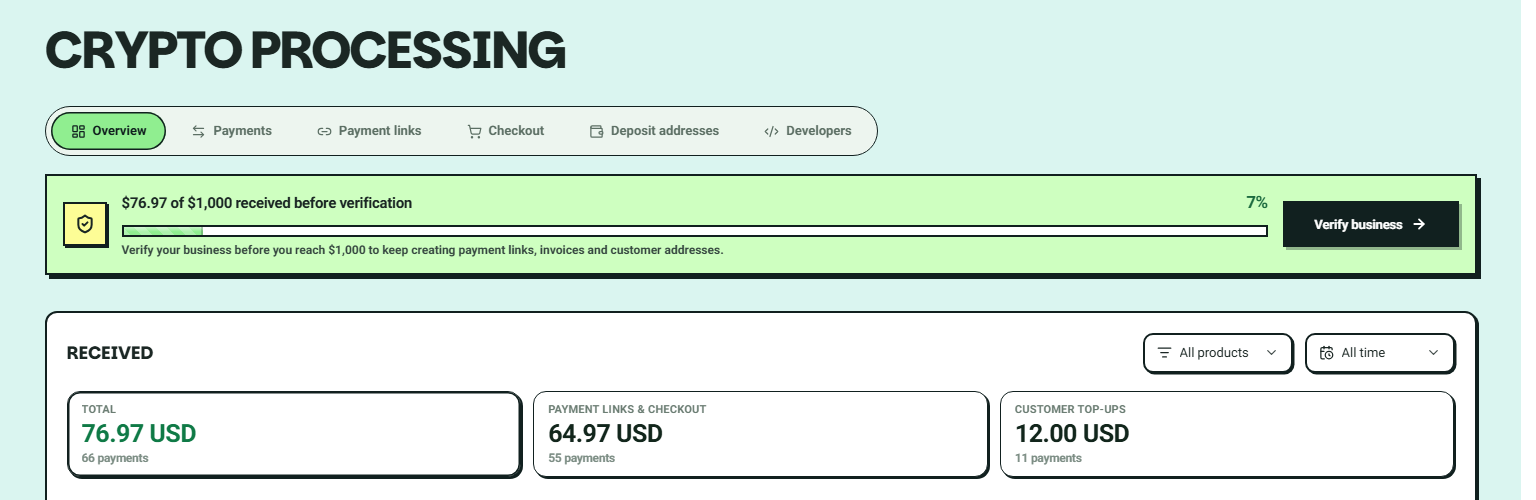
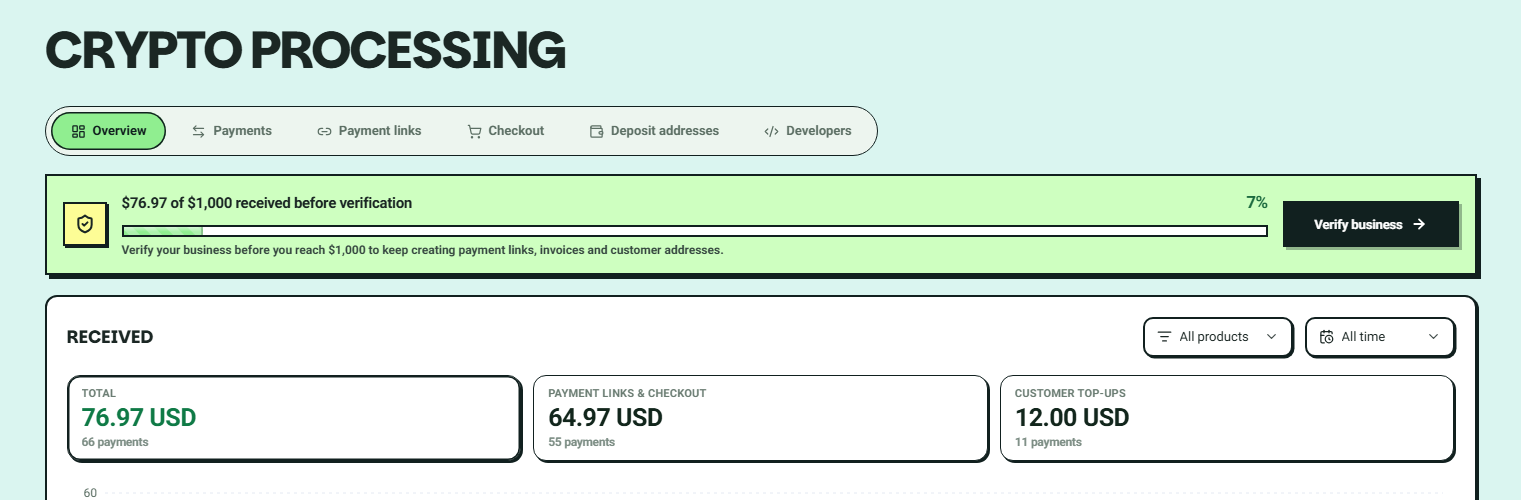
Crypto processing docs: the onboarding questions as they are now, the band on every page
- Before you start accepting crypto no longer asks whether payments link to customers; where customers are is one
  picker (countries, or Worldwide), and finishing confirms no payments from sanctioned countries (Terms of Service).
- Every page of Crypto processing shows what was received before verification, not the Overview only.
- onboarding.gif and portal-overview.png shot again on the stand.

diff --git a/checkout-integration.md b/checkout-integration.md
@@ -33,12 +33,12 @@ Creating a link and opening a checkout move no money. The checkout's messages to
 
 1. On `https://www.unigox.com/crypto-processing`, press **Start business onboarding**. Sign in or create an account if you have none.
 2. Answer **Your business** and **Your volume**, and under **Your products** pick **Crypto processing**.
-3. Answer **Before you start accepting crypto**: who you accept payments for (yourself, or a company and its name), your website and industry, how you plan to accept payments, whose goods or services customers pay for, where your customers are, the largest single payment you expect, and whether you can link payments to your customers. No documents are needed now.
+3. Answer **Before you start accepting crypto**: who you accept payments for (yourself, or a company and its name), your website and industry, how you plan to accept payments, whose goods or services customers pay for, where your customers are (pick countries, or **Worldwide**), and the largest single payment you expect. No documents are needed now. By finishing, you confirm you take no payments from sanctioned countries and regions, as the Terms of Service require.
 4. Press **Finish and open my portal**. **Crypto processing** opens in your business portal.
 
 <figure><img src="assets/crypto-processing/onboarding.gif" alt="Business onboarding: Crypto processing, then the questions of Before you start accepting crypto, filled in for a sample company"><figcaption><p>The crypto processing questions in business onboarding (sample answers).</p></figcaption></figure>
 
-Until your business is verified you can receive up to 1,000 USD in all. The **Overview** shows how much of it you have received, with **Verify business**. At 1,000 USD, new payment links, invoices and deposit addresses wait until your business is verified; payments to the ones you already made still arrive.
+Until your business is verified you can receive up to 1,000 USD in all. Every page of **Crypto processing** shows how much of it you have received, with **Verify business**. At 1,000 USD, new payment links, invoices and deposit addresses wait until your business is verified; payments to the ones you already made still arrive.
 
 ## What you need
 

diff --git a/checkout-quickstart.md b/checkout-quickstart.md
@@ -35,12 +35,12 @@ Creating a link and opening a checkout move no money. The checkout's messages to
 
 1. On `https://www.unigox.com/crypto-processing`, press **Start business onboarding**. Sign in or create an account if you have none.
 2. Answer **Your business** and **Your volume**, and under **Your products** pick **Crypto processing**.
-3. Answer **Before you start accepting crypto**: who you accept payments for (yourself, or a company and its name), your website and industry, how you plan to accept payments, whose goods or services customers pay for, where your customers are, the largest single payment you expect, and whether you can link payments to your customers. No documents are needed now.
+3. Answer **Before you start accepting crypto**: who you accept payments for (yourself, or a company and its name), your website and industry, how you plan to accept payments, whose goods or services customers pay for, where your customers are (pick countries, or **Worldwide**), and the largest single payment you expect. No documents are needed now. By finishing, you confirm you take no payments from sanctioned countries and regions, as the Terms of Service require.
 4. Press **Finish and open my portal**. **Crypto processing** opens in your business portal.
 
 <figure><img src="assets/crypto-processing/onboarding.gif" alt="Business onboarding: Crypto processing, then the questions of Before you start accepting crypto, filled in for a sample company"><figcaption><p>The crypto processing questions in business onboarding (sample answers).</p></figcaption></figure>
 
-Until your business is verified you can receive up to 1,000 USD in all. The **Overview** shows how much of it you have received, with **Verify business**. At 1,000 USD, new payment links, invoices and deposit addresses wait until your business is verified; payments to the ones you already made still arrive.
+Until your business is verified you can receive up to 1,000 USD in all. Every page of **Crypto processing** shows how much of it you have received, with **Verify business**. At 1,000 USD, new payment links, invoices and deposit addresses wait until your business is verified; payments to the ones you already made still arrive.
 
 ## What you need
 
